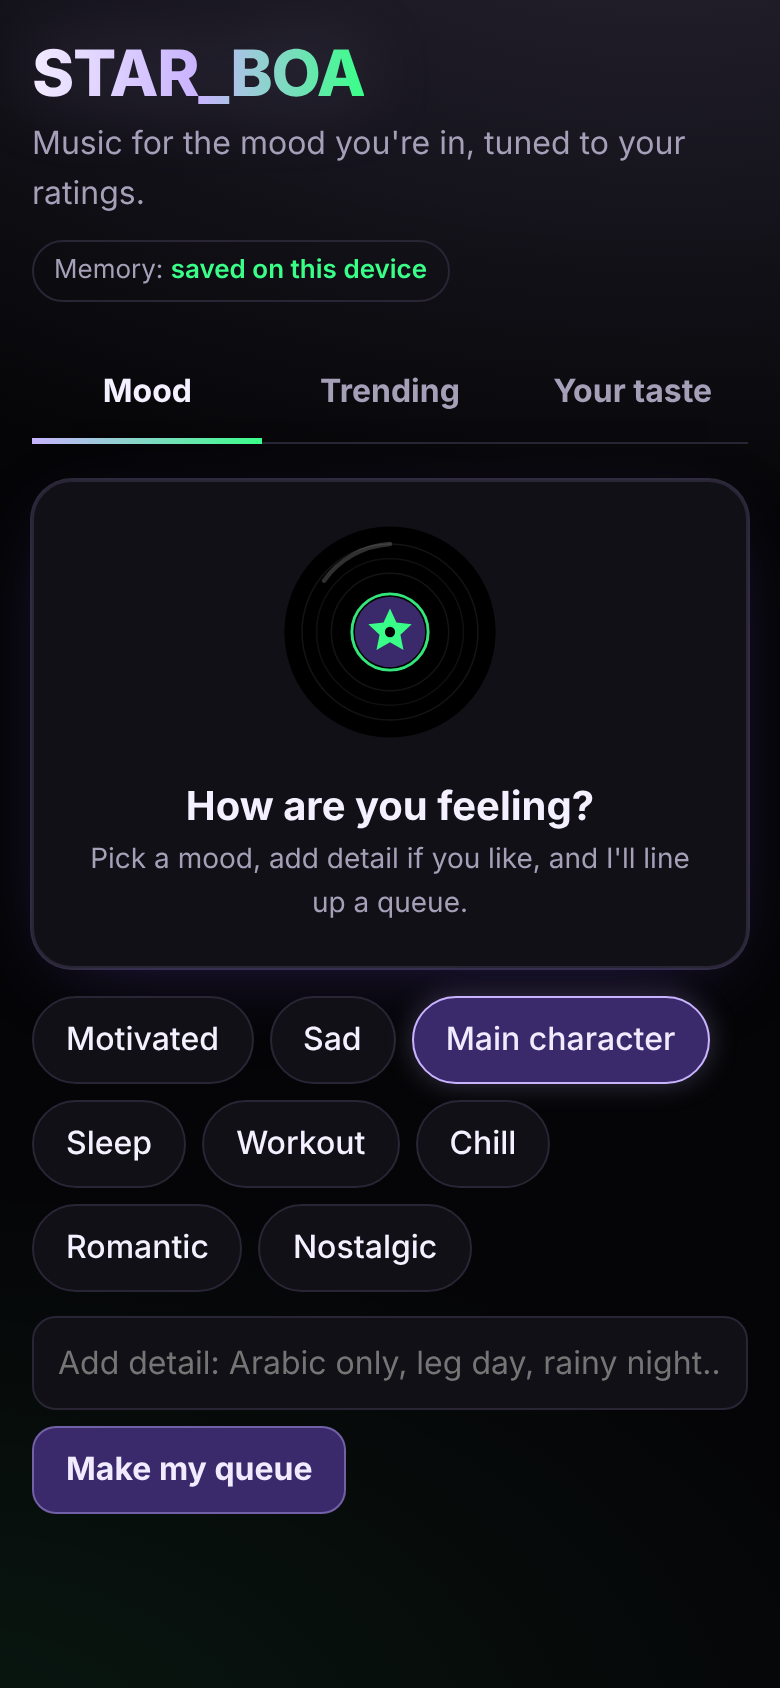
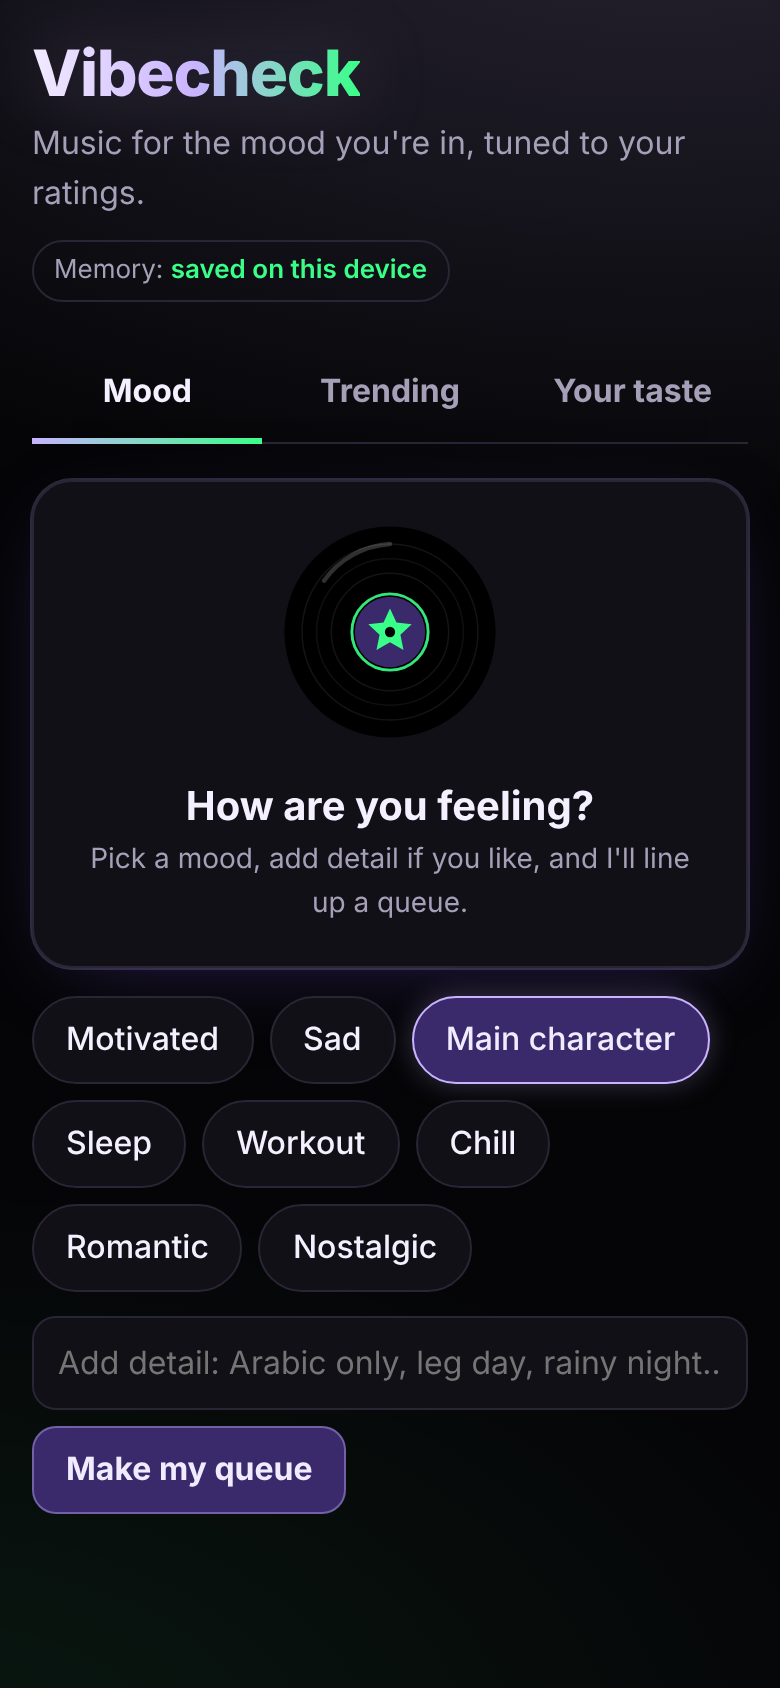
Rename the app to Vibecheck (saved data carries over)
Claude-Session: https://claude.ai/code/session_01EesmnuVbHcScWLZNPH6eYi

Changed region(s): [[0.0308, 0.0308, 0.4615, 0.0616]]

diff --git a/public/app.js b/public/app.js
@@ -1,4 +1,4 @@
-// STAR_BOA front end. No framework, no build step: one ES module.
+// Vibecheck front end. No framework, no build step: one ES module.
 const $ = (id) => document.getElementById(id);
 const esc = (s) => String(s ?? "").replace(/[&<>"']/g, (c) => ({ "&": "&amp;", "<": "&lt;", ">": "&gt;", '"': "&quot;", "'": "&#39;" })[c]);
 const key = (s) => `${s.t} — ${s.a}`.toLowerCase().trim();
@@ -13,21 +13,22 @@ const SVC = {
 };
 
 /* ---------------- state (persisted in localStorage) ---------------- */
-const STORE = "star_boa.v1";
+const STORE = "vibecheck.v1";
+const OLD_STORE = "star_boa.v1"; // the app used to be called STAR_BOA; carry old data over
 const blank = () => ({ genres: [], artists: "", notes: "", svc: "ytmusic", ratings: [], seen: [], moodLog: [], queue: [], qi: 0, qMood: "", qFeel: "", qWords: "", yt: {}, imports: [] });
 let P = load();
 let charts = loadCharts();
 let feel = "";
 
 function load() {
-  try { return { ...blank(), ...JSON.parse(localStorage.getItem(STORE) || "{}") }; } catch { return blank(); }
+  try { return { ...blank(), ...JSON.parse(localStorage.getItem(STORE) || localStorage.getItem(OLD_STORE) || "{}") }; } catch { return blank(); }
 }
 function save() {
   try { localStorage.setItem(STORE, JSON.stringify(P)); $("memPill").innerHTML = "Memory: <b>saved on this device</b>"; }
   catch { $("memPill").innerHTML = "Memory: <b>not available</b>"; }
 }
 function loadCharts() {
-  try { return JSON.parse(localStorage.getItem("star_boa.charts")) || { now: [], fresh: [], year: [] }; } catch { return { now: [], fresh: [], year: [] }; }
+  try { return JSON.parse(localStorage.getItem("vibecheck.charts")) || { now: [], fresh: [], year: [] }; } catch { return { now: [], fresh: [], year: [] }; }
 }
 
 /* ---------------- rendering ---------------- */
@@ -108,7 +109,7 @@ function renderFeel() { chips($("feel"), FEEL.map((f) => [f, f]), feel ? [feel] 
 function renderAll() { renderQueue(); renderCharts(); renderTaste(); renderFeel(); }
 
 /* ---------------- API ---------------- */
-function passcode() { try { return localStorage.getItem("star_boa.pass") || ""; } catch { return ""; } }
+function passcode() { try { return localStorage.getItem("vibecheck.pass") || localStorage.getItem("star_boa.pass") || ""; } catch { return ""; } }
 async function api(path, opts = {}) {
   const r = await fetch(path, { ...opts, headers: { "content-type": "application/json", "x-app-passcode": passcode(), ...(opts.headers || {}) } });
   const data = await r.json().catch(() => ({}));
@@ -119,14 +120,14 @@ async function api(path, opts = {}) {
 function askPasscode() {
   return new Promise((resolve) => {
     const d = $("passDlg");
-    d.addEventListener("close", () => { try { localStorage.setItem("star_boa.pass", $("passInput").value); } catch {} resolve(); }, { once: true });
+    d.addEventListener("close", () => { try { localStorage.setItem("vibecheck.pass", $("passInput").value); } catch {} resolve(); }, { once: true });
     d.showModal();
   });
 }
 async function refreshCharts() {
   try {
     const c = await api("/api/charts");
-    if (c?.now?.length) { charts = c; try { localStorage.setItem("star_boa.charts", JSON.stringify(c)); } catch {} renderCharts(); }
+    if (c?.now?.length) { charts = c; try { localStorage.setItem("vibecheck.charts", JSON.stringify(c)); } catch {} renderCharts(); }
   } catch { if (!charts.now?.length) $("chartWhen").textContent = "Couldn't load charts. Check your connection."; }
 }
 
@@ -300,7 +301,7 @@ for (const id of ["artists", "notes"]) $(id).addEventListener("input", () => {
 
 async function copyData() {
   const out = JSON.stringify({ ...P, yt: {} });
-  try { await navigator.clipboard.writeText(out); $("dataMsg").textContent = "Copied. Paste it into STAR_BOA on your other device."; }
+  try { await navigator.clipboard.writeText(out); $("dataMsg").textContent = "Copied. Paste it into Vibecheck on your other device."; }
   catch { $("importBox").hidden = false; $("importBox").value = out; $("importBox").select(); $("dataMsg").textContent = "Copy the text above."; }
 }
 function importData() {
@@ -311,7 +312,7 @@ function importData() {
     if (!Array.isArray(d.ratings)) throw 0;
     P = { ...blank(), ...d }; save(); renderAll();
     box.hidden = true; $("dataMsg").textContent = `Imported ${P.ratings.length} ratings.`;
-  } catch { $("dataMsg").textContent = "That doesn't look like STAR_BOA data."; }
+  } catch { $("dataMsg").textContent = "That doesn't look like Vibecheck data."; }
 }
 let armed = false;
 function forget(b) {

diff --git a/public/index.html b/public/index.html
@@ -4,8 +4,8 @@
 <meta charset="utf-8">
 <meta name="viewport" content="width=device-width,initial-scale=1,viewport-fit=cover">
 <meta name="theme-color" content="#050507">
-<meta name="description" content="STAR_BOA: mood-based music queues that learn from your 1–10 ratings, plus live charts and new releases.">
-<title>STAR_BOA</title>
+<meta name="description" content="Vibecheck: mood-based music queues that learn from your 1–10 ratings, plus live charts and new releases.">
+<title>Vibecheck</title>
 <link rel="manifest" href="/manifest.webmanifest">
 <link rel="icon" href="/icon.svg" type="image/svg+xml">
 <link rel="apple-touch-icon" href="/icon-180.png">
@@ -17,7 +17,7 @@
 <div class="wrap">
   <header>
     <div>
-      <h1>STAR_BOA</h1>
+      <h1>Vibecheck</h1>
       <p class="sub">Music for the mood you're in, tuned to your ratings.</p>
     </div>
     <span class="pill" id="memPill">Memory: <b>this device</b></span>
@@ -120,14 +120,14 @@
       <button id="importBtn" type="button">Paste data</button>
       <button id="clear" type="button">Forget everything</button>
     </div>
-    <textarea id="importBox" hidden placeholder="Paste your STAR_BOA data here, then tap Paste data again."></textarea>
+    <textarea id="importBox" hidden placeholder="Paste your Vibecheck data here, then tap Paste data again."></textarea>
     <p class="msg" id="dataMsg" role="status"></p>
   </section>
 
   <dialog id="passDlg">
     <form method="dialog" id="passForm">
       <h2 class="h3">Passcode</h2>
-      <p class="note">This STAR_BOA is private. Enter the passcode the owner gave you.</p>
+      <p class="note">This Vibecheck is private. Enter the passcode the owner gave you.</p>
       <input id="passInput" type="password" autocomplete="current-password">
       <div class="row"><button class="primary" value="ok">Unlock</button></div>
     </form>

diff --git a/public/sw.js b/public/sw.js
@@ -1,6 +1,6 @@
-// Minimal service worker: caches the app shell so STAR_BOA opens instantly and installs as an app.
+// Minimal service worker: caches the app shell so Vibecheck opens instantly and installs as an app.
 // API calls always go to the network (charts and picks must be fresh).
-const CACHE = "star-boa-v4";
+const CACHE = "vibecheck-v1";
 const SHELL = ["/", "/index.html", "/styles.css", "/app.js", "/icon.svg", "/manifest.webmanifest"];
 
 self.addEventListener("install", (e) => {

diff --git a/lib/apple.js b/lib/apple.js
@@ -10,7 +10,7 @@ const genreOf = (r) => {
 };
 
 /**
- * Turn Apple's feed into STAR_BOA's chart shape.
+ * Turn Apple's feed into Vibecheck's chart shape.
  * - now:   the current top songs
  * - fresh: charting songs released in the last `freshDays` days (default 30)
  * - year:  biggest songs released this year that aren't already in `now`

diff --git a/public/styles.css b/public/styles.css
@@ -1,4 +1,4 @@
-/* STAR_BOA — "Soft violet": black, deep violet + lilac (chill), neon green (pop) */
+/* Vibecheck — "Soft violet": black, deep violet + lilac (chill), neon green (pop) */
 :root {
   color-scheme: dark;
   --bg: #050507; --card: #111016; --ink: #f4f0ff; --mute: #a59fb8; --line: #2a2535;

diff --git a/scripts/dev-server.js b/scripts/dev-server.js
@@ -31,4 +31,4 @@ http.createServer(async (req, res) => {
     res.statusCode = 404;
     res.end("Not found");
   }
-}).listen(PORT, () => console.log(`STAR_BOA running at http://localhost:${PORT}`));
+}).listen(PORT, () => console.log(`Vibecheck running at http://localhost:${PORT}`));

diff --git a/README.md b/README.md
@@ -1,8 +1,8 @@
-# STAR_BOA
+# Vibecheck
 
 **Music for the mood you're in, tuned to how you rate songs.**
 
-Pick a mood (Motivated, Sad, Main character, Sleep, Workout and more), and STAR_BOA builds a queue that plays automatically in an embedded YouTube player. Rate each song 1–10 as it plays and the next queue gets sharper. Ratings remember the mood they were given in, so a sad song you love doesn't sneak into your workout playlist. The Trending tab shows the current charts and this week's new releases, refreshed automatically.
+Pick a mood (Motivated, Sad, Main character, Sleep, Workout and more), and Vibecheck builds a queue that plays automatically in an embedded YouTube player. Rate each song 1–10 as it plays and the next queue gets sharper. Ratings remember the mood they were given in, so a sad song you love doesn't sneak into your workout playlist. The Trending tab shows the current charts and this week's new releases, refreshed automatically.
 
 <p>
   <img src="docs/screenshot-mood.png" width="300" alt="Mood picker">
@@ -48,8 +48,8 @@ Browser (public/)                         Vercel serverless (api/)
 Requires Node 22.9+. There are no dependencies to install.
 
 ```bash
-git clone https://github.com/<you>/star-boa.git
-cd star-boa
+git clone https://github.com/<you>/vibecheck.git
+cd vibecheck
 cp .env.example .env      # add your keys
 npm run dev               # http://localhost:3000
 npm test                  # unit tests
